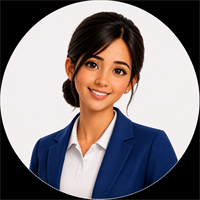
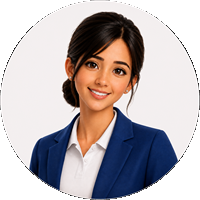
u

diff --git a/asistente.js b/asistente.js
@@ -400,16 +400,22 @@
 
   var CSS = ''
     /* ---------- BOTÓN FLOTANTE (avatar ya existente) ---------- */
+    /* Círculo limpio: borde blanco de 2px y una sombra apenas
+       perceptible. Nada de contornos oscuros.
+       (La imagen zoe.png viene recortada en círculo con el fondo
+       transparente; antes tenía las esquinas negras y se veía un
+       anillo oscuro alrededor del avatar.) */
     + '#zb-fab{position:fixed;bottom:24px;left:24px;z-index:998;width:64px;height:64px;border-radius:50%;'
-    + 'background:#fff;border:2px solid #fff;cursor:pointer;box-shadow:0 4px 16px rgba(16,24,40,.20);'
-    + 'display:flex;align-items:center;justify-content:center;padding:0;'
+    + 'background:#fff;border:2px solid #fff;cursor:pointer;box-shadow:0 2px 10px rgba(0,0,0,.08);'
+    + 'display:flex;align-items:center;justify-content:center;padding:0;overflow:visible;'
     + 'transition:transform .2s ease,box-shadow .2s ease;-webkit-tap-highlight-color:transparent}'
     /* La foto llena el botón; el recorte circular lo da el propio botón. */
-    + '.zb-fab-foto{width:100%;height:100%;object-fit:cover;display:block;border-radius:50%}'
+    + '.zb-fab-foto{width:100%;height:100%;object-fit:cover;display:block;border-radius:50%;'
+    + 'background:#fff}'
     /* Punto verde de "disponible": sugiere que hay alguien al otro lado. */
     + '#zb-fab::after{content:"";position:absolute;right:2px;bottom:4px;width:14px;height:14px;'
     + 'border-radius:50%;background:' + C.verde + ';border:2.5px solid #fff}'
-    + '#zb-fab:hover{transform:translateY(-3px);box-shadow:0 10px 26px rgba(16,24,40,.28)}'
+    + '#zb-fab:hover{transform:translateY(-3px);box-shadow:0 6px 18px rgba(0,0,0,.14)}'
     + '#zb-fab:active{transform:translateY(-1px)}'
     + '#zb-fab:focus-visible{outline:3px solid rgba(37,99,235,.45);outline-offset:3px}'
     + '#zb-fab.oculto{display:none}'

diff --git a/index.html b/index.html
@@ -2986,6 +2986,16 @@ input:focus-visible, select:focus-visible, textarea:focus-visible {
 .mp-thumb.activa { border-color: var(--blue); box-shadow: 0 0 0 2px var(--blue-ring); }
 .mp-thumb:focus-visible { outline: 3px solid var(--blue-ring); outline-offset: 2px; }
 
+/* Al ver una tabla nutricional el recuadro crece: son imágenes
+   altas y llenas de texto pequeño, y a 380px no se leía nada.
+   La foto del producto no lo necesita, por eso solo se aplica
+   cuando la foto activa no es la primera. */
+.modal-img-wrap.viendo-tabla { height: 560px; }
+@media (max-width: 900px) { .modal-img-wrap.viendo-tabla { height: 460px; } }
+@media (max-width: 560px) { .modal-img-wrap.viendo-tabla { height: 400px; } }
+.modal-img-wrap { transition: height var(--t-slow); }
+@media (prefers-reduced-motion: reduce) { .modal-img-wrap { transition: none; } }
+
 /* --- Modo de uso compacto (ficha simple) --- */
 .mp-uso-card {
   display: flex; align-items: center; gap: var(--s-3);
@@ -7388,9 +7398,16 @@ function verFoto(btn, src) {
   if (!img) return;
   img.src = src;
   if (typeof resetZoom === 'function') resetZoom();
+
   const cont = btn.parentElement;
-  cont.querySelectorAll('.mp-thumb').forEach(t => t.classList.remove('activa'));
+  const fotos = [...cont.querySelectorAll('.mp-thumb')];
+  fotos.forEach(t => t.classList.remove('activa'));
   btn.classList.add('activa');
+
+  /* La primera foto es el producto; el resto son etiquetas y
+     tablas, que necesitan más alto para poder leerse. */
+  const wrap = document.getElementById('mImgWrap');
+  if (wrap) wrap.classList.toggle('viendo-tabla', fotos.indexOf(btn) > 0);
 }
 
 /* Chips de información clave, bajo el nombre.
